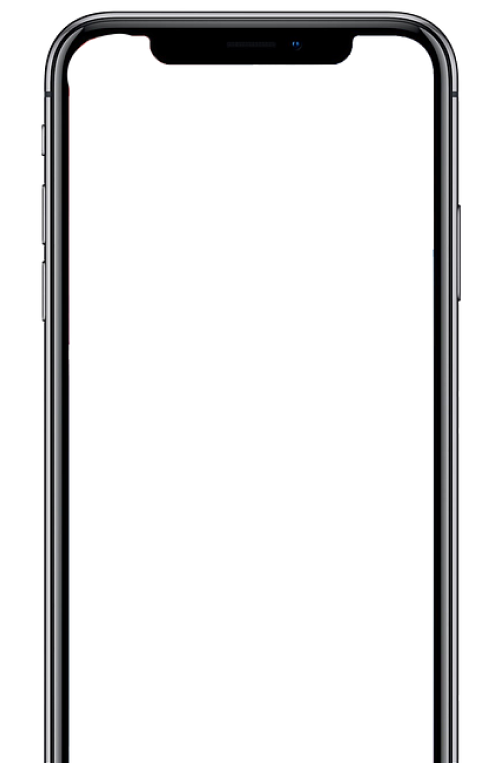
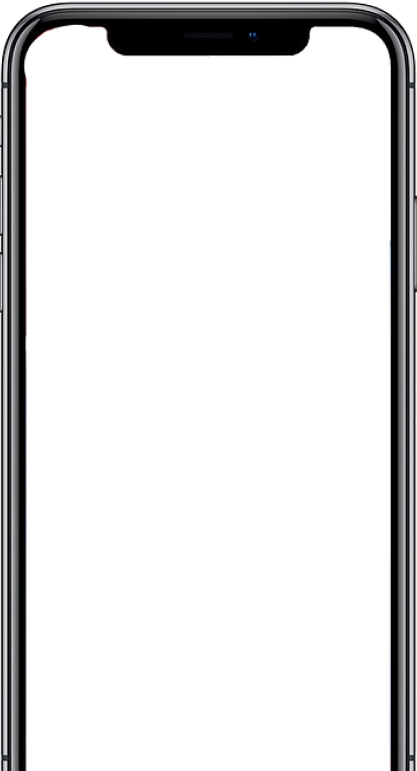
update: updated responsive phone slide

Changed region(s): [[0.0, 0.0, 1.0, 1.0]]

diff --git a/src/components/home-page/phone-slide/phone-slide.css b/src/components/home-page/phone-slide/phone-slide.css
@@ -65,10 +65,11 @@
 
   .phone-layout {
     position: absolute;
-    top: 113px;
-    right: 168px;
+    bottom: 0;
+    right: 13%;
     z-index: 9;
     pointer-events: none;
+    object-fit: contain;
   }
   .prev-arrow {
     position: absolute;
@@ -99,17 +100,15 @@
     .swiper {
       width: 100%;
       height: 100%;
-      .swiper-wrapper {
-        /* padding-left: calc(100vw - 90%); */
+      /* .swiper-wrapper {
+        padding-left: 12%;
         align-items: center;
-        left: 200px;
-      }
+      } */
     }
     .swiper-slide {
       display: flex;
       justify-content: center;
       align-items: center;
-      /* transform: translateX(200px); */
       
       div {
         width: 270px !important;
@@ -157,9 +156,118 @@
       }
     }
   }
-
+  @media screen and (max-width: 1200px) {
+    height: 1200px;
+    width: 100vw;
+    .text__container {
+      max-width: unset;
+    }
+    .phone-layout {
+      height: 700px;
+      bottom: 0;
+      left: 50%;
+      transform: translateX(calc(-27% + 6px));
+    }
+    .prev-arrow {
+      bottom: 336px;
+      left: 50%;
+      transform: translateX(-28vw);
+      width: 60px;
+      height: 60px;
+      display: none;
+    }
+    .next-arrow {
+      bottom: 336px;
+      left: 50%;
+      transform: translateX(22vw);
+      width: 60px;
+      height: 60px;
+      display: none;
+    }
+    .phone-slide__container__wrapper {
+      height: 700px;
+      width: 100vw !important;
+      position: absolute;
+      bottom: 0;
+      left: 0;
+      z-index: 8;
+      .swiper {
+        .swiper-wrapper {
+          padding-left: 24px !important;
+        }
+      }
+      .swiper-slide {
+        margin: 0 1.5% !important;
+        div {
+          width: 300px !important;
+          height: 60% !important;
+          margin-bottom: 0;
+          img {
+            width: 100%;
+            height: 100%;
+            object-fit: cover;
+          }
+        }
+      }
+      .swiper-slide.swiper-slide-active {
+        width: 353px !important;
+        margin: 12px 1.5% 0 !important;
+        div {
+          width: 355px !important;
+          height: 100% !important;
+          img {
+            width: 100%;
+            height: 700px;
+          }
+        }
+      }
+    }
+  }
+  @media screen and (max-width: 1024px) {
+    padding: 100px 50px;
+    height: 1200px;
+    .phone-layout {
+      height: 600px;
+      bottom: 0;
+      left: 50%;
+      transform: translateX(calc(-33% + 6px));
+    }
+    .phone-slide__container__wrapper {
+      height: 600px;
+      .swiper {
+        .swiper-wrapper {
+          padding-left: 0 !important;
+        }
+      }
+      .swiper-slide {
+        margin: 0 1.5% !important;
+        div {
+          width: 300px !important;
+          height: 60% !important;
+          margin-bottom: 0;
+          img {
+            width: 100%;
+            height: 100%;
+            object-fit: cover;
+          }
+        }
+      }
+      .swiper-slide.swiper-slide-active {
+        width: 308px !important;
+        margin: 12px 1.5% 0 !important;
+        div {
+          width: 308px !important;
+          height: 100% !important;
+          img {
+            width: 100%;
+            height: 600px;
+          }
+        }
+      }
+    }
+  }
   @media screen and (max-width: 768px) {
-    height: 950px;
+    height: 1000px;
     padding: 50px 30px;
     .text__container {
       max-width: unset;
@@ -173,58 +281,51 @@
       }
     }
     .phone-layout {
-      top: 506px;
+      height: 500px;
+      bottom: 0;
       left: 50%;
-      transform: translateX(-50%);
-      width: 293.752px;
-      height: 444.708px;
+      transform: translateX(calc(-46% + 2px));
     }
     .phone-slide__container__wrapper {
-      height: 445px;
-      bottom: 0;
-      .swiper {
-        .swiper-wrapper {
-          position: absolute;
-          right: 85px;
-        }
-      }
+      height: 500px;
       .swiper-slide {
+        margin: 0 1.5% !important;
         div {
-          width: 226.14px !important;
-          height: 430px !important;
-          margin-bottom: -15px;
+          width: 300px !important;
+          height: 60% !important;
+          margin-bottom: 0;
+          img {
+            width: 100%;
+            height: 100%;
+            object-fit: cover;
+          }
         }
       }
       .swiper-slide.swiper-slide-active {
-        width: 226.14px !important;
-        display: flex;
-        justify-content: center;
-        align-items: center;
-        margin: 0 30px !important;
+        width: 255px !important;
+        margin: 12px 1.5% 0 !important;
         div {
-          width: 226.14px !important;
-          height: 430px !important;
-          position: relative;
+          width: 255px !important;
+          height: 100% !important;
           img {
             width: 100%;
-            height: 430px;
+            height: 500px;
           }
         }
-        div::before {
-          content: unset;
-        }
       }
-    }
-    .prev-arrow {
-      display: none;
-    }
-    .next-arrow {
-      display: none;
     }
   }
 
+  @media screen and (max-width: 645px) {
+    .phone-layout {
+      height: 500px;
+      bottom: 0;
+      left: 50%;
+      transform: translateX(calc(-42% + 2px));
+    }
+  }
   @media screen and (max-width: 576px) {
-    height: 1137px;
+    height: 1265px;
     padding: 50px 30px;
     .text__container {
       max-width: unset;
@@ -238,53 +339,45 @@
       }
     }
     .phone-layout {
-      top: 692px;
+      height: 444px;
+      bottom: 0;
       left: 50%;
-      transform: translateX(-50%);
-      width: 293.752px;
-      height: 444.708px;
+      transform: translateX(calc(-42% + 4px));
     }
     .phone-slide__container__wrapper {
-      height: 445px;
-      bottom: 0;
-      .swiper {
-        .swiper-wrapper {
-          position: absolute;
-          right: 100px;
-        }
-      }
+      height: 444px;
       .swiper-slide {
+        margin: 0 1% !important;
         div {
-          width: 226.14px !important;
-          height: 430px !important;
-          margin-bottom: -15px;
+          width: 300px !important;
+          height: 100% !important;
+          margin-bottom: 0;
+          img {
+            width: 100%;
+            height: 100%;
+            object-fit: cover;
+          }
         }
       }
       .swiper-slide.swiper-slide-active {
-        width: 226.14px !important;
-        display: flex;
-        justify-content: center;
-        align-items: center;
-        margin: 0 10.62px !important;
+        width: 225px !important;
+        margin: 5px 5% 0 !important;
         div {
-          width: 226.14px !important;
-          height: 430px !important;
-          position: relative;
+          width: 225px !important;
           img {
             width: 100%;
-            height: 430px;
+            height: 444px;
           }
-        }
-        div::before {
-          content: unset;
         }
       }
     }
-    .prev-arrow {
-      display: none;
-    }
-    .next-arrow {
-      display: none;
+  }
+  @media screen and (max-width: 440px) {
+    .phone-layout {
+      height: 444px;
+      bottom: 0;
+      left: 50%;
+      transform: translateX(calc(-37% + 3.5px));
     }
   }
 }

diff --git a/src/components/home-page/phone-slide/index.jsx b/src/components/home-page/phone-slide/index.jsx
@@ -1,7 +1,6 @@
 import React, { useRef, useState } from 'react'
 import './phone-slide.css'
 import { Swiper, SwiperSlide } from "swiper/react";
-import {  } from "swiper/modules";
 
 import "swiper/css";
 import "swiper/css/navigation";
@@ -80,15 +79,23 @@ const PhoneSlide = () => {
           loop={true}
           slideToClickedSlide={true}
           centeredSlides={true}
-          spaceBetween={30}
-          modules={[]}
           className="phone-slide"
-          slidesOffsetAfter={10}
           onSwiper={(swiper) => {
             swiperRef.current = swiper;
           }}
           onSlideChangeTransitionEnd={() => {
             setCurrentIndex(swiperRef.current?.realIndex);
+          }}
+          breakpoints={{
+            375: {
+              slidesPerView: 3,
+            },
+            768: {
+              slidesPerView: 4,
+            },
+            1200: {
+              slidesPerView: 5,
+            },
           }}
         >
           <SwiperSlide>
